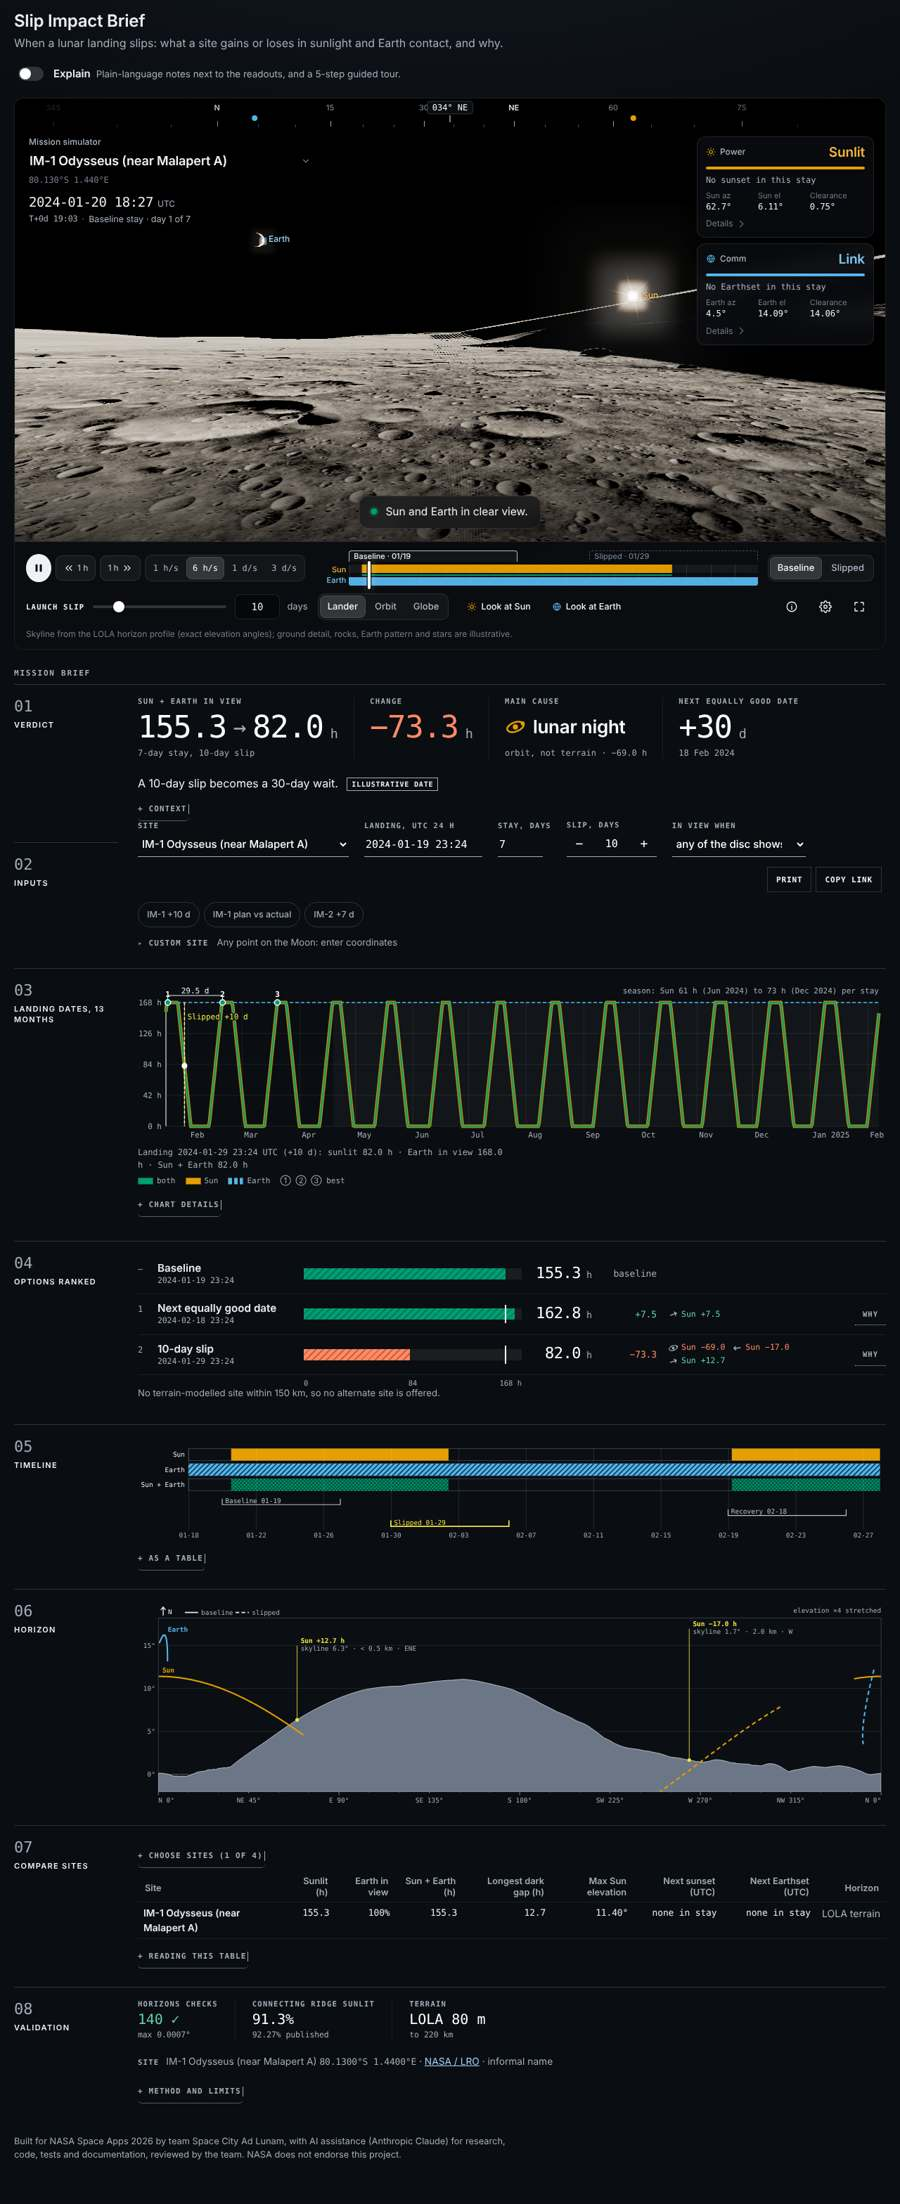
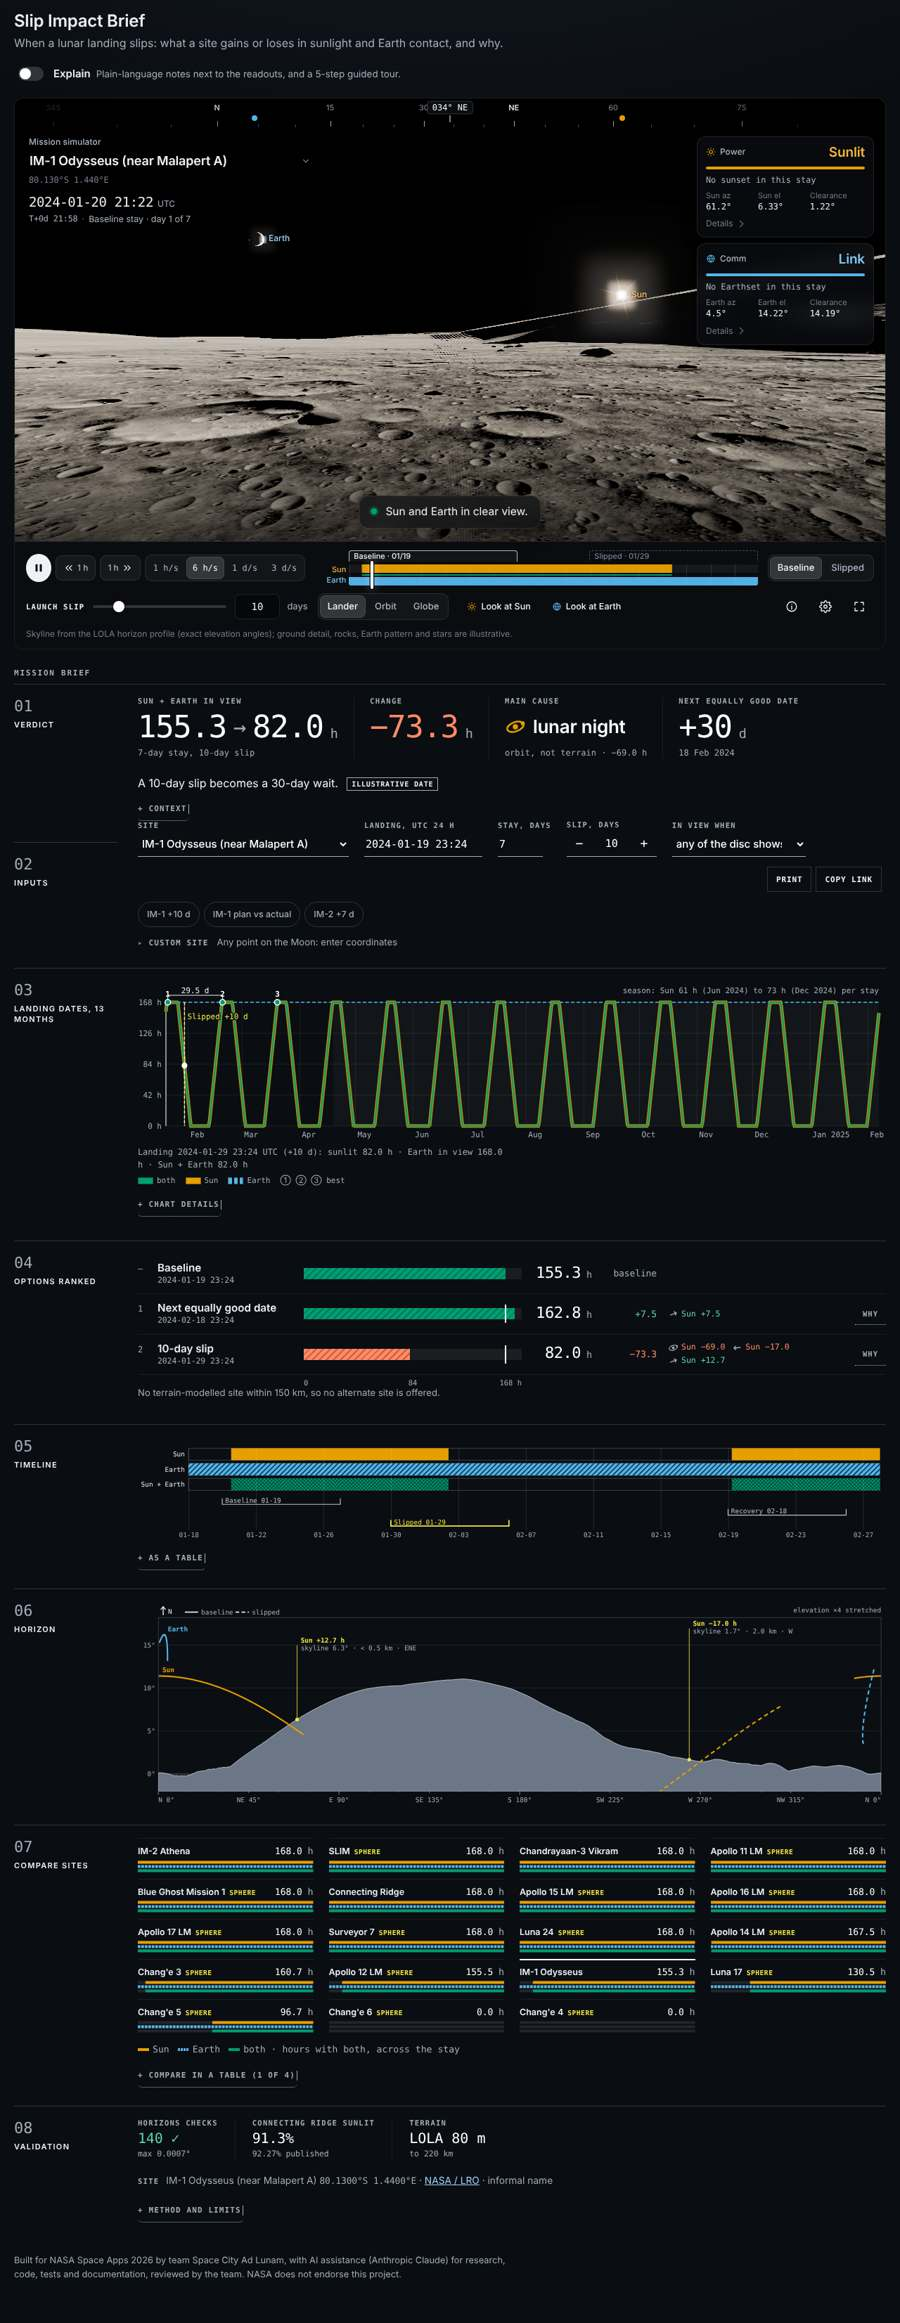
B: round 3 — compare sites as small multiples; refresh screenshots and counts
Claude-Session: https://claude.ai/code/session_01WwDCQt2hdWfW76KHyGkxYE

diff --git a/app/src/features/index.ts b/app/src/features/index.ts
@@ -6,6 +6,7 @@ import type { FeaturesFile, FixturesFile, HorizonFile, Site } from '@contracts/t
 import type { Ephem } from '../engine/ephem';
 import { fmtUtc, parseUtc } from '../engine/ephem';
 import { siteFrame } from '../engine/geometry';
+import { windowMetrics } from '../engine/metrics';
 import type { Mode } from '../engine/visibility';
 import { simView } from '../sim';
 import { augmentSites, checkCustom, CUSTOM_ID, customSite, isSphere, SPHERE_NOTE, sphereHorizon, type CustomInput } from './custom';
@@ -474,12 +475,14 @@ function renderCompare() {
   const full = ids.length >= 4;
   const t0 = tStart();
   sec.innerHTML = `<h2 id="feat-cmp-h">Compare sites${mockTag()}</h2>
-    <details class="more noprint"${ids.length > 1 ? '' : ''}><summary>Choose sites (${ids.length} of 4)</summary>
+    <div id="cmp-strips" class="strips" role="group" aria-label="Every site for the same landing date and stay, most Sun and Earth hours first. Choosing one makes it the landing site."><p class="note">Computing…</p></div>
+    <details class="more noprint"><summary>Compare in a table (${ids.length} of 4)</summary>
     <p class="note">Same landing date (${esc(when(fmtUtc(t0)))}) and ${ctx.state.stay}-day stay at every site.</p>
     <fieldset class="cmp-pick noprint"><legend>Sites to compare (up to 4)</legend>
       ${ctx.data.sites.map((s) => { const on = ids.includes(s.id); return `<label class="chk"><input type="checkbox" value="${esc(s.id)}" ${on ? 'checked' : ''} ${!on && full ? 'disabled' : ''}> ${esc(s.name)}</label>`; }).join('')}
-    </fieldset></details>
-    <div id="cmp-table" class="cmp-wrap"><p class="note">Computing…</p></div>`;
+    </fieldset>
+    <div id="cmp-table" class="cmp-wrap"><p class="note">Computing…</p></div></details>`;
+  idle(() => fillStrips(t0));
   sec.querySelectorAll<HTMLInputElement>('.cmp-pick input').forEach((cb) => cb.addEventListener('change', () => {
     const cur = cmpIds();
     FS.cmp = cb.checked ? [...cur.filter((x) => x !== cb.value), cb.value].slice(0, 4) : cur.filter((x) => x !== cb.value);
@@ -490,6 +493,47 @@ function renderCompare() {
     again?.querySelector<HTMLInputElement>(`.cmp-pick input[value="${CSS.escape(cb.value)}"]`)?.focus();
   }));
   idle(() => fillCompare(ids, t0));
+}
+
+// Small multiples (round 3, Agent B): one tiny Sun / Earth / both strip per site for the same date and stay.
+// Uses the engine's windowMetrics and its 10-minute scan; nothing is computed differently from the table.
+const stripCache = new Map<string, { both: number; sun: number; svg: string }>();
+function fillStrips(t0: number) {
+  const host = document.getElementById('cmp-strips');
+  if (!host) return;
+  const stay = ctx.state.stay;
+  const runs = (v: Uint8Array, w: Uint8Array | null, n: number) => {
+    let d = '', s0 = -1;
+    for (let k = 0; k <= n; k++) {
+      const on = k < n && !!v[k] && (!w || !!w[k]);
+      if (on && s0 < 0) s0 = k;
+      if (!on && s0 >= 0) { d += `M${((200 * s0) / n).toFixed(1)} 0H${((200 * k) / n).toFixed(1)}`; s0 = -1; }
+    }
+    return d;
+  };
+  let rows: { s: Site; both: number; sun: number; svg: string; sphere: boolean }[];
+  try {
+    rows = ctx.data.sites.map((s) => {
+      const hz = ctx.data.horizons.get(s.id)!;
+      const key = `${s.id}|${s.lat}|${s.lon_e}|${t0}|${stay}|${ctx.state.mode}|${ctx.data.mock}`;
+      let r = stripCache.get(key);
+      if (!r) {
+        const { metrics, scan } = windowMetrics(ctx.data.ephem, siteFrame(s), hz, t0, t0 + stay * DAY, ctx.state.mode);
+        r = { both: metrics.both_visible_h, sun: metrics.sunlit_h,
+          svg: `<svg viewBox="0 0 200 17" preserveAspectRatio="none" aria-hidden="true"><path d="M0 2.5H200M0 8.5H200M0 14.5H200" class="st-bg"/>`
+            + `<path transform="translate(0 2.5)" d="${runs(scan.sunVis, null, scan.n)}" class="st-sun"/><path transform="translate(0 8.5)" d="${runs(scan.earthVis, null, scan.n)}" class="st-earth"/>`
+            + `<path transform="translate(0 14.5)" d="${runs(scan.sunVis, scan.earthVis, scan.n)}" class="st-both"/></svg>` };
+        stripCache.set(key, r);
+      }
+      return { s, ...r, sphere: isSphere(hz) };
+    });
+  } catch (e) { host.innerHTML = `<p class="error" role="alert">${esc((e as Error).message)}</p>`; return; }
+  rows.sort((a, b) => b.both - a.both || b.sun - a.sun);
+  host.innerHTML = rows.map((r) => `<button type="button" class="strip" data-site="${esc(r.s.id)}" ${r.s.id === ctx.state.site ? 'aria-current="true"' : ''} aria-label="${esc(r.s.name)}: Sun and Earth both in view ${r.both.toFixed(1)} hours of a ${stay}-day stay${r.sphere ? ', smooth-sphere horizon' : ''}. Make this the landing site.">
+      <span class="st-n"><span>${esc(r.s.name.replace(/\s*\(.*$/, ''))}</span>${r.sphere ? '<abbr class="st-s" title="Smooth-sphere horizon, no terrain model">sphere</abbr>' : ''}</span>
+      <span class="st-h num">${r.both.toFixed(1)}<small> h</small></span>${r.svg}</button>`).join('')
+    + '<p class="st-key note"><span class="k k-sun"></span>Sun<span class="k k-earth"></span>Earth<span class="k k-both"></span>both · hours with both, across the stay</p>';
+  host.querySelectorAll<HTMLButtonElement>('button[data-site]').forEach((b) => b.addEventListener('click', () => ctx.setState({ site: b.dataset.site! })));
 }
 
 function fillCompare(ids: string[], t0: number) {

diff --git a/app/src/ui/brief.css b/app/src/ui/brief.css
@@ -164,3 +164,20 @@ footer p { font-size: 0.8rem; color: #a3aebb; max-width: 90ch; }
   footer p { font-size: 8pt; color: #000; }
   @page { margin: 9mm; }
 }
+
+/* 07 compare: small multiples, one strip per site (Sun, Earth, both across the stay) */
+.strips { display: grid; grid-template-columns: repeat(auto-fill, minmax(200px, 1fr)); gap: 0 22px; margin: 0 0 6px; }
+.strip { display: grid; grid-template-columns: minmax(0, 1fr) auto; gap: 2px 8px; align-items: baseline; width: auto; min-height: 0; padding: 8px 0 9px; text-align: left;
+  background: transparent; border: 0; border-top: 1px solid var(--rule-2); border-radius: 0; color: inherit; }
+.strip:hover { background: rgba(255, 255, 255, 0.05); }
+.strip[aria-current="true"] { border-top: 2px solid #fff; padding-top: 7px; }
+.strip .st-n { display: flex; align-items: baseline; min-width: 0; font: 600 12.5px/1.2 var(--sans); color: var(--ink, #eef2f6); }
+.strip .st-n > span { white-space: nowrap; overflow: hidden; text-overflow: ellipsis; min-width: 0; }
+.strip .st-s { flex: none; margin-left: 6px; font: 600 9.5px/1 var(--mono); letter-spacing: 0.06em; text-transform: uppercase; color: var(--warn); text-decoration: none; }
+.strip .st-h { font-size: 13px; color: #fff; } .strip .st-h small { color: var(--dim); }
+.strip svg { grid-column: 1 / -1; width: 100%; height: 17px; }
+.strip .st-bg { stroke: rgba(255, 255, 255, 0.1); stroke-width: 4; fill: none; }
+.strip .st-sun { stroke: var(--sun); stroke-width: 4; fill: none; } .strip .st-earth { stroke: var(--earth); stroke-width: 4; stroke-dasharray: 3 1; fill: none; } .strip .st-both { stroke: var(--both); stroke-width: 4; fill: none; }
+.st-key { grid-column: 1 / -1; margin: 8px 0 0 !important; font: 500 11px/1 var(--mono); }
+.st-key .k { display: inline-block; width: 16px; height: 4px; margin: 0 5px 2px 12px; vertical-align: middle; } .st-key .k:first-child { margin-left: 0; }
+.st-key .k-sun { background: var(--sun); } .st-key .k-earth { background: repeating-linear-gradient(90deg, var(--earth) 0 3px, transparent 3px 4px); } .st-key .k-both { background: var(--both); }

diff --git a/STATUS-B.md b/STATUS-B.md
@@ -1,10 +1,11 @@
 # STATUS-B
 
-_Updated: Sun 15 Nov 2026, 13:40 CT_
+_Updated: Sun 15 Nov 2026, 12:58 CT_
 
 <!-- AI-ASSISTED: drafted with Claude (Anthropic), reviewed by the human team. -->
 
-## Round 3: visual redesign below the simulator (Sun 12:30 to 13:40 CT)
+## Round 3: visual redesign below the simulator (Sun, PR #7 opened about 12:50 CT)
+Times in the two sections below were estimates written during the work; the real clock was earlier than stated.
 UI only. No engine maths, data or contract changes. Direction and references: `docs/design.md`.
 - **01 Verdict strip** replaces the "What the slip does" text: Sun + Earth in view (before → after), change,
   main cause with an orbit/terrain icon, next equally good date. One sentence under it. The full "Why" and
@@ -19,16 +20,17 @@ UI only. No engine maths, data or contract changes. Direction and references: `d
 - **05 Timeline:** direct row labels, stays as brackets with their dates, table alternative in a disclosure.
 - **06 Horizon:** blocking terrain labelled on the plot with leader lines (hours, skyline height, distance,
   bearing), north arrow, tick marks, "elevation ×N stretched" tag, Sun/Earth labels on the paths.
-- **07 Compare** (C's logic): the 21-checkbox wall is inside "Choose sites (n of 4)". **Small multiples were not
-  built** (time); the table is unchanged.
+- **07 Compare:** small multiples. One strip per site (Sun, Earth, both across the stay) for the same landing
+  date, most Sun + Earth hours first; choosing a strip makes it the landing site; smooth-sphere sites carry a
+  "sphere" tag. C's sortable table and its site picker are unchanged, inside "Compare in a table".
 - **08 Validation:** badge row (Horizons checks, Connecting Ridge sunlit vs published, terrain model or
   "no terrain model" in warning colour), a one-line site credit, and one "Method and limits" disclosure that
   collects every footnote. All numbers are read from the data files or computed live.
 - Charts are now drawn at the real pixel width and redrawn on resize, so text stays readable at 390 px.
 
 Checks (all on the built app, headless Chrome):
-- `npm test` 42 passing, `npm run build` passes. JS bundle 201.5 kB gzip (limit 230); no new dependencies.
-- Words outside the simulator, IM-1 state at 1280 px: 1,377 → 608 by `innerText`; 451 actually visible.
+- `npm test` 42 passing, `npm run build` passes. JS bundle 202.2 kB gzip (limit 230); no new dependencies.
+- Words outside the simulator, IM-1 state at 1280 px: 1,377 → 592 by `innerText`; 450 actually visible.
   **The 250 target is not met.**
 - No horizontal scroll at 390 px. Stepper, "why" toggles, example chips, Explain mode and URL parameters work.
 - Print: one page on Letter and A4 for IM-1, IM-2, Connecting Ridge, Apollo 11 and SLIM states.

diff --git a/docs/design.md b/docs/design.md
@@ -34,8 +34,8 @@ numerals) are applied from general knowledge, not from a specific page. No site'
 ## Word counts (IM-1 state, 1280 px, everything outside the simulator)
 | | Before | After |
 |---|---|---|
-| `innerText` word count (includes dropdown options and screen-reader-only text) | 1,377 | 608 |
-| Visible words (dropdown options and screen-reader-only text removed) | not measured | 451 |
+| `innerText` word count (includes dropdown options and screen-reader-only text) | 1,377 | 592 |
+| Visible words (dropdown options and screen-reader-only text removed) | not measured | 450 |
 
-The target was about 250. What remains is labels, chart text, the compare table, and the header and footer
+The target was about 250. What remains is labels, chart text, the site strips, and the header and footer
 (the AI-use and non-endorsement lines stay visible on purpose).
